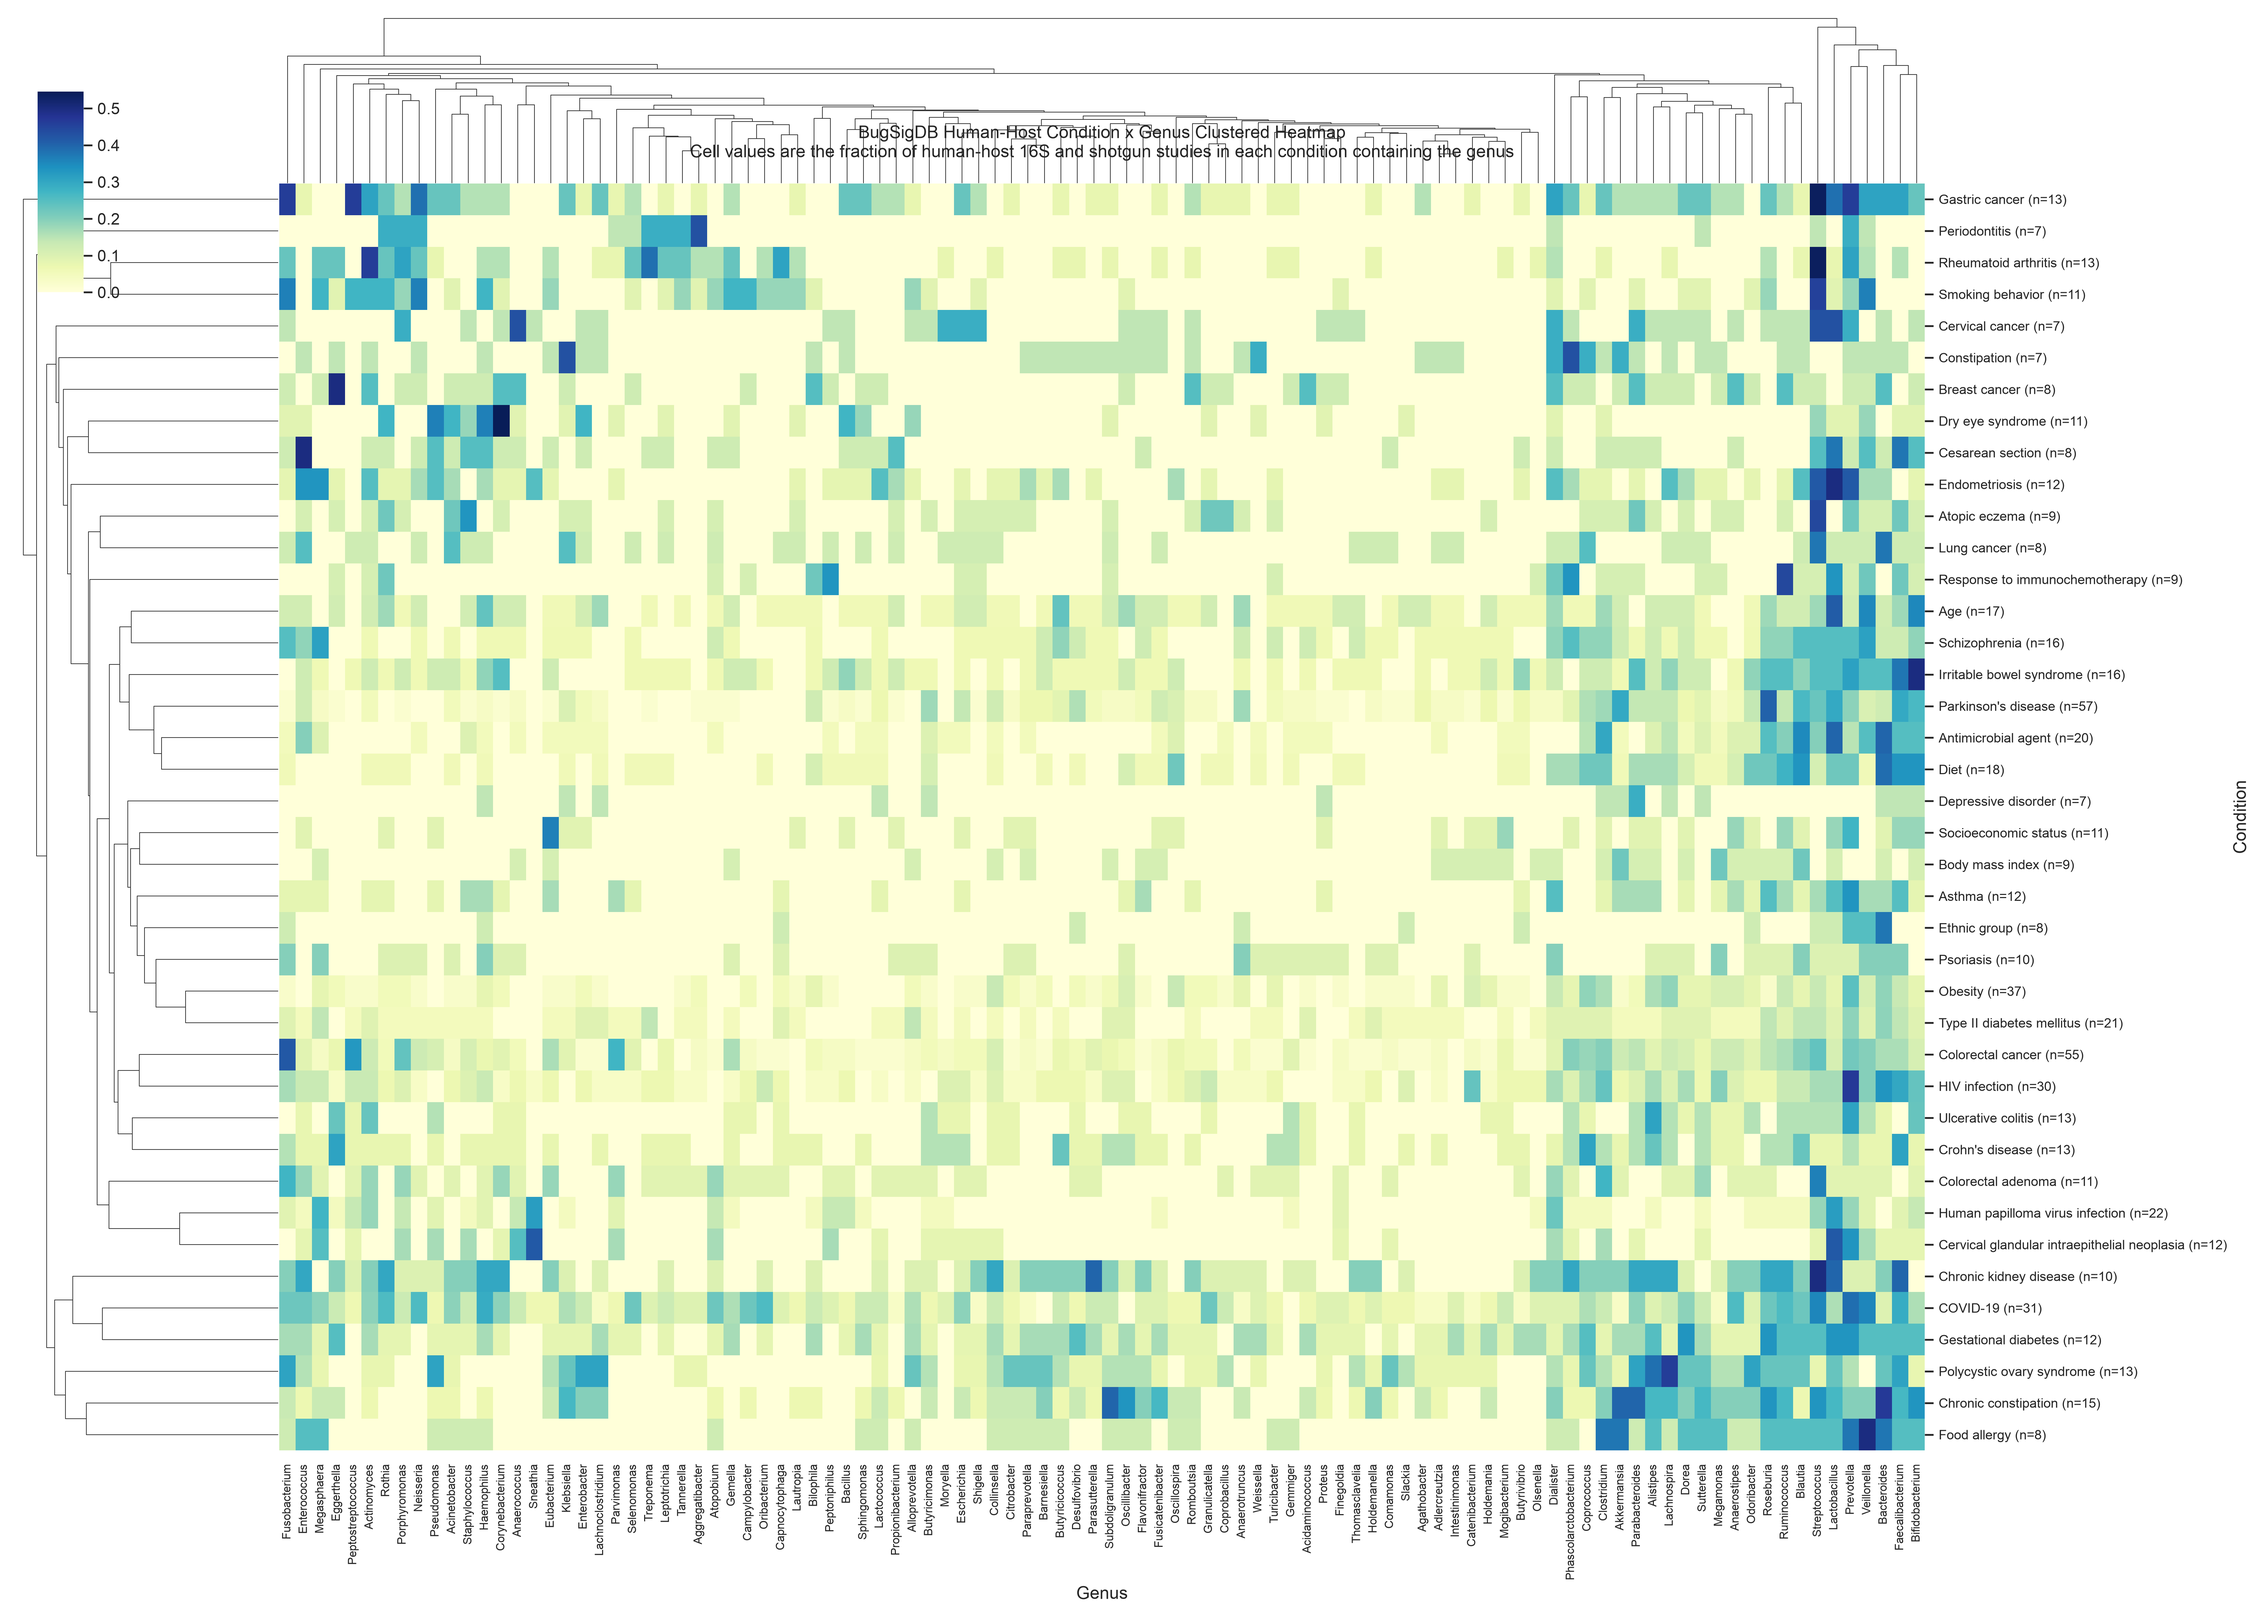
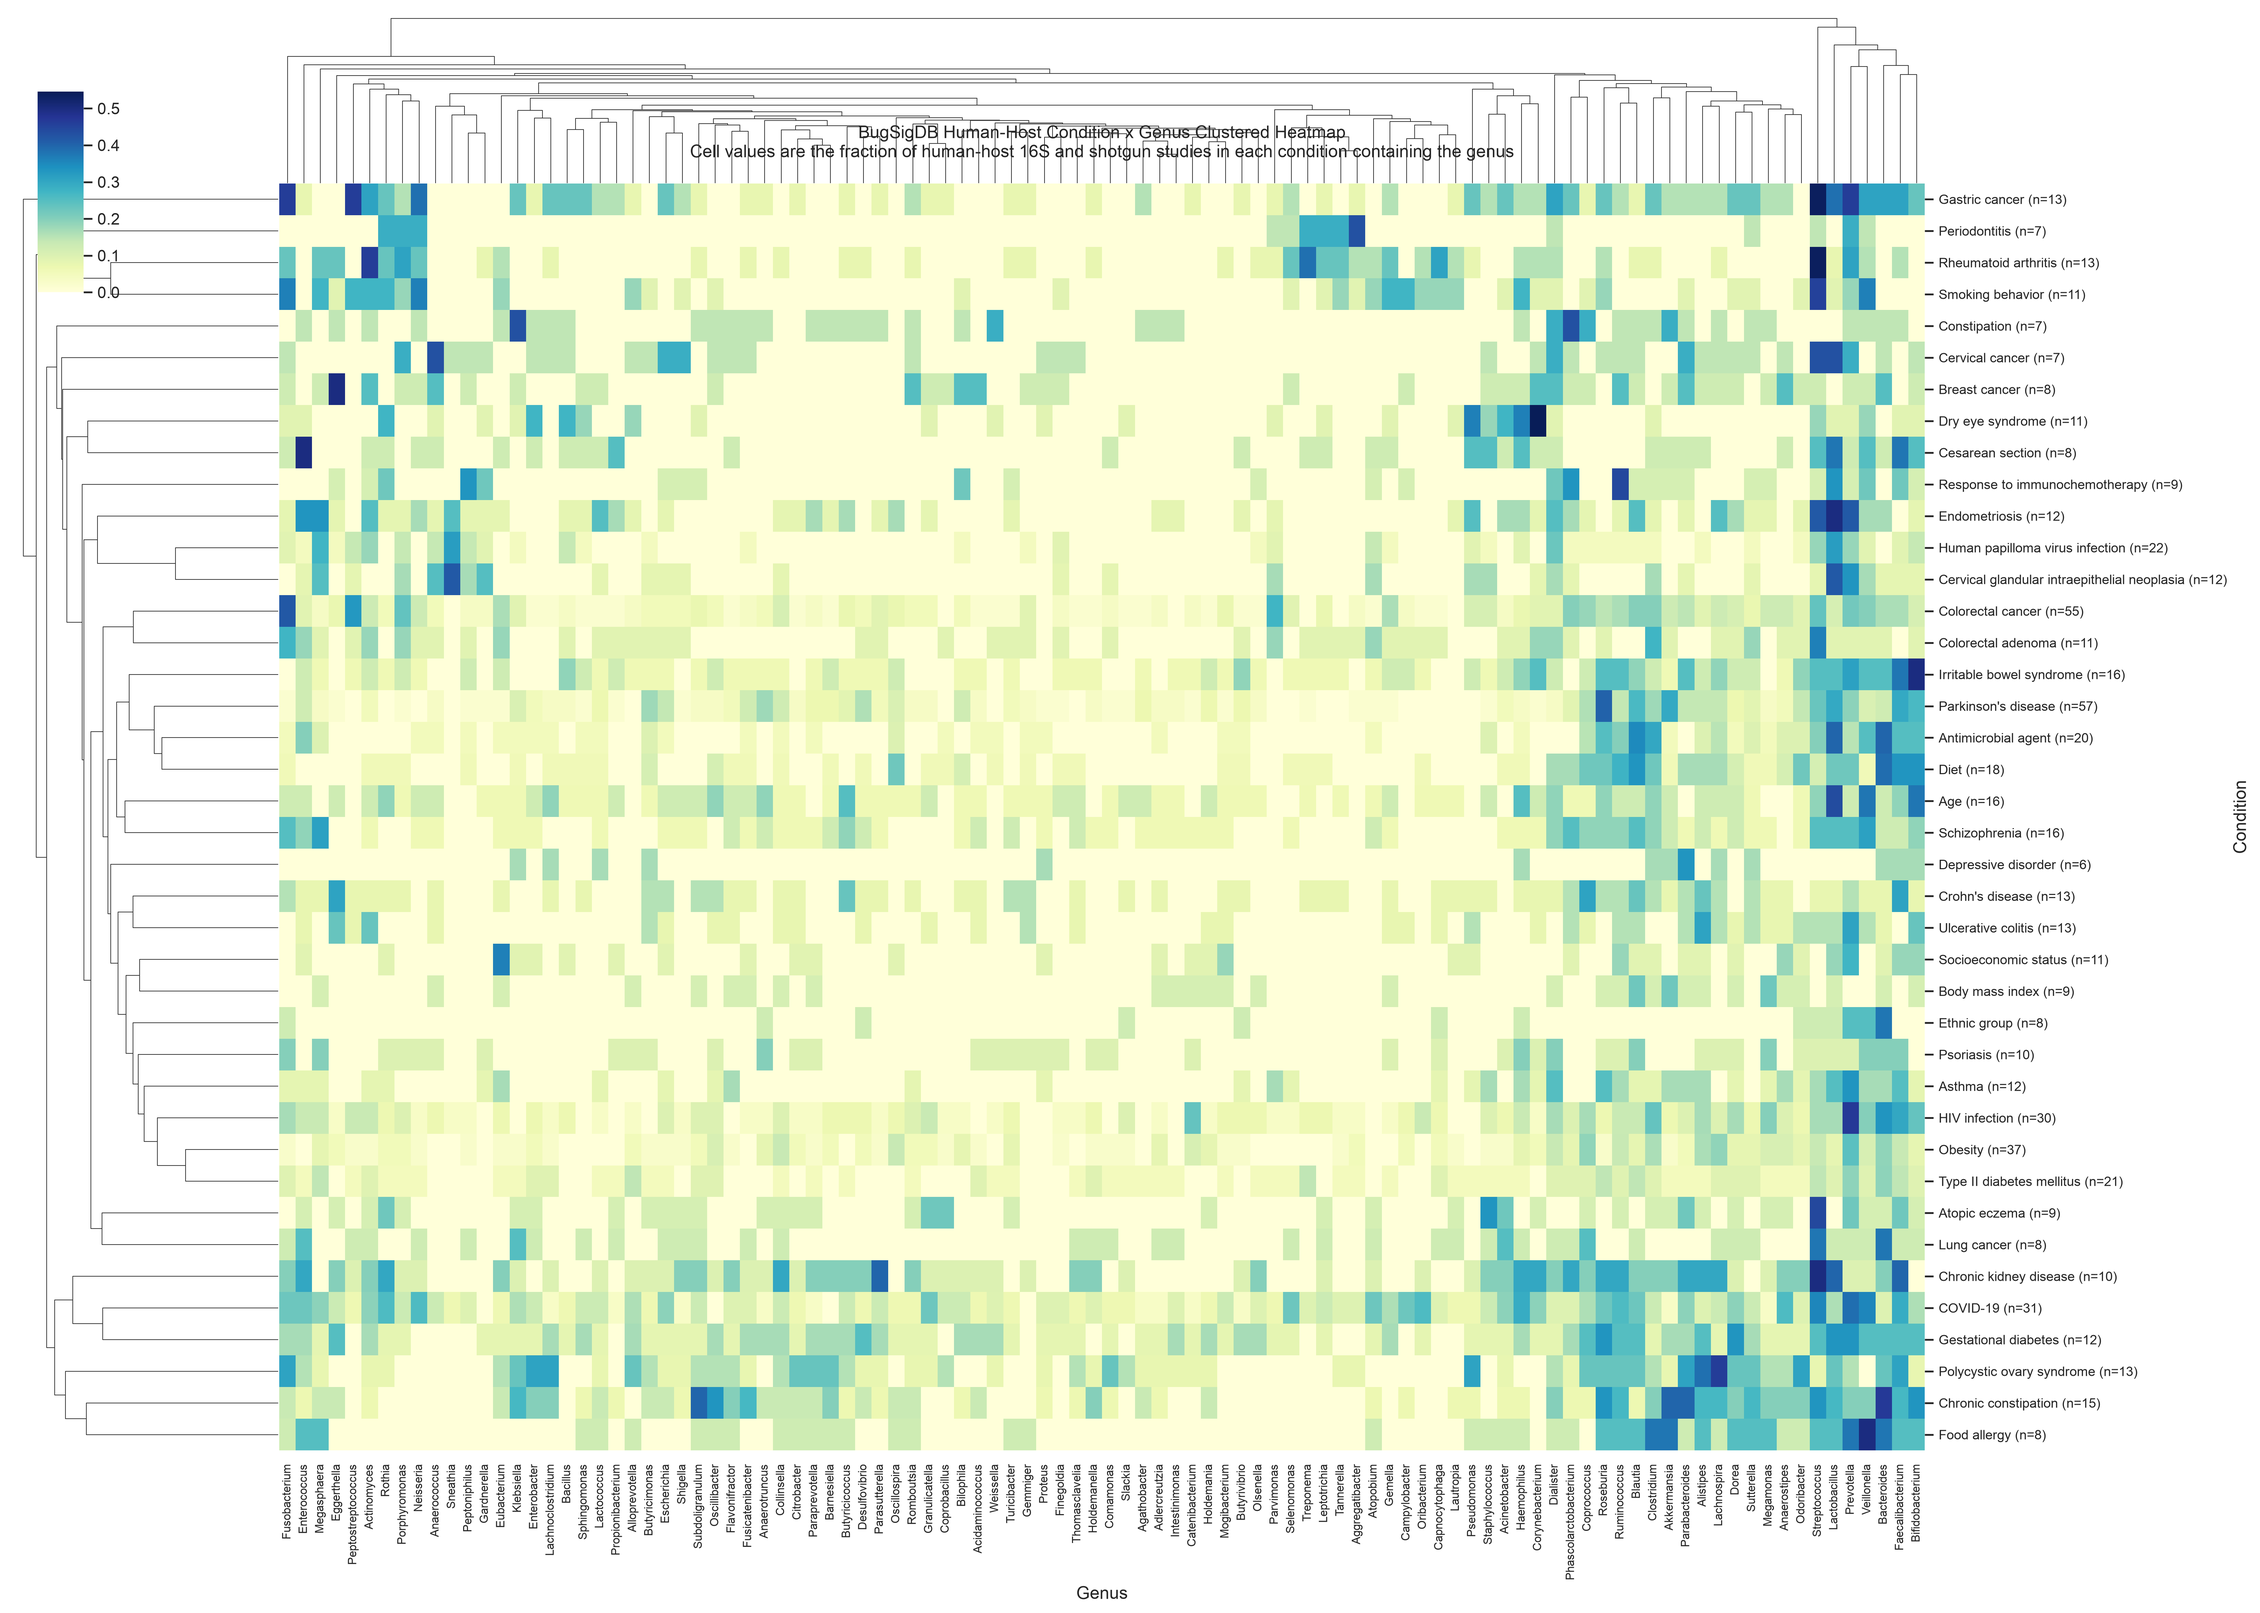
Regenerate the condition-taxon heatmap with run-table denominators and name-ordered cuts (#768, #794)
Regenerated with the condition-taxon step of just trait-heatmaps, from the
all-paired core that PR #767 used (run-5a513c19e3f34e579a0ea98432bffb10,
main 8b280a3) and the pinned full_dump.csv. Against #767's copy:

- the same 40 conditions; Age's denominator goes 17 -> 16 and Depressive
  disorder's 7 -> 6, because 16 dump experiments that the ingest skipped
  no longer count;
- Gardnerella replaces Moryella in a 4-way tie at the 100-genus cut.

figure_methods.md: the displayed conditions now have 6 to 57 studies.

diff --git a/trait-visualization/figure_methods.md b/trait-visualization/figure_methods.md
@@ -264,7 +264,7 @@ Companion file:
 This figure is an earlier condition-by-genus prevalence heatmap. It shows which
 prevalent genera recur across studies assigned to common BugSigDB condition labels.
 Rows are conditions and columns are genera. The current matrix contains 40 conditions
-and 100 genera; displayed conditions have 13 to 81 studies.
+and 100 genera; displayed conditions have 6 to 57 studies.
 
 The figure was generated by `scripts/create_condition_taxon_heatmap.py`. The script
 extracts unique study-condition pairs for `Homo sapiens` 16S and shotgun (WMS)
